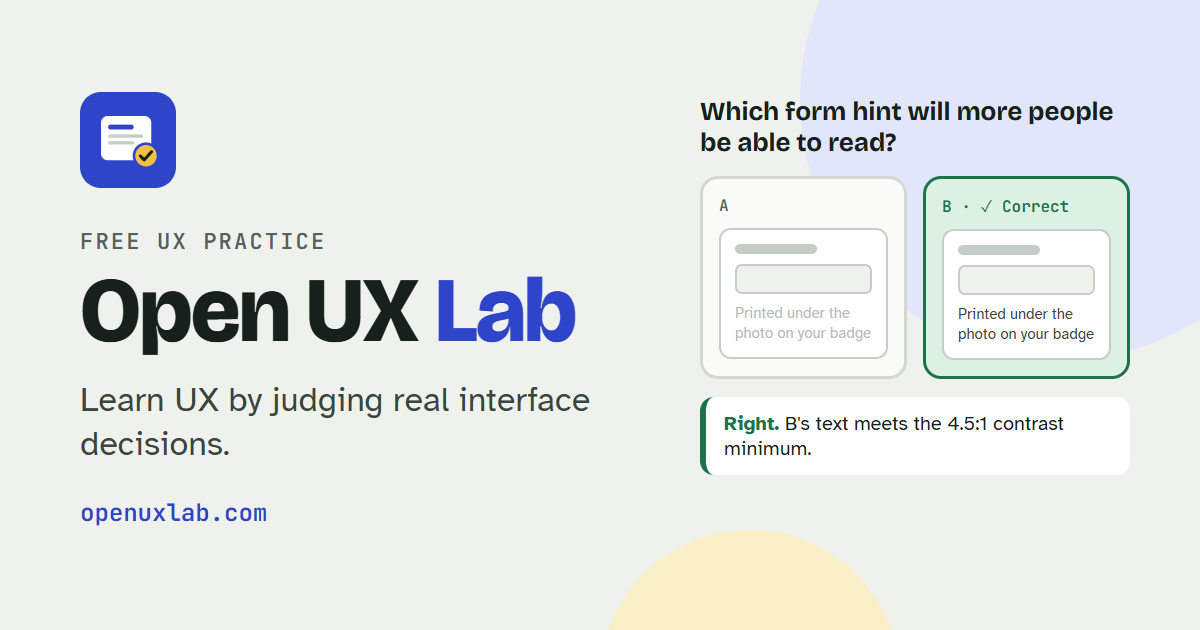
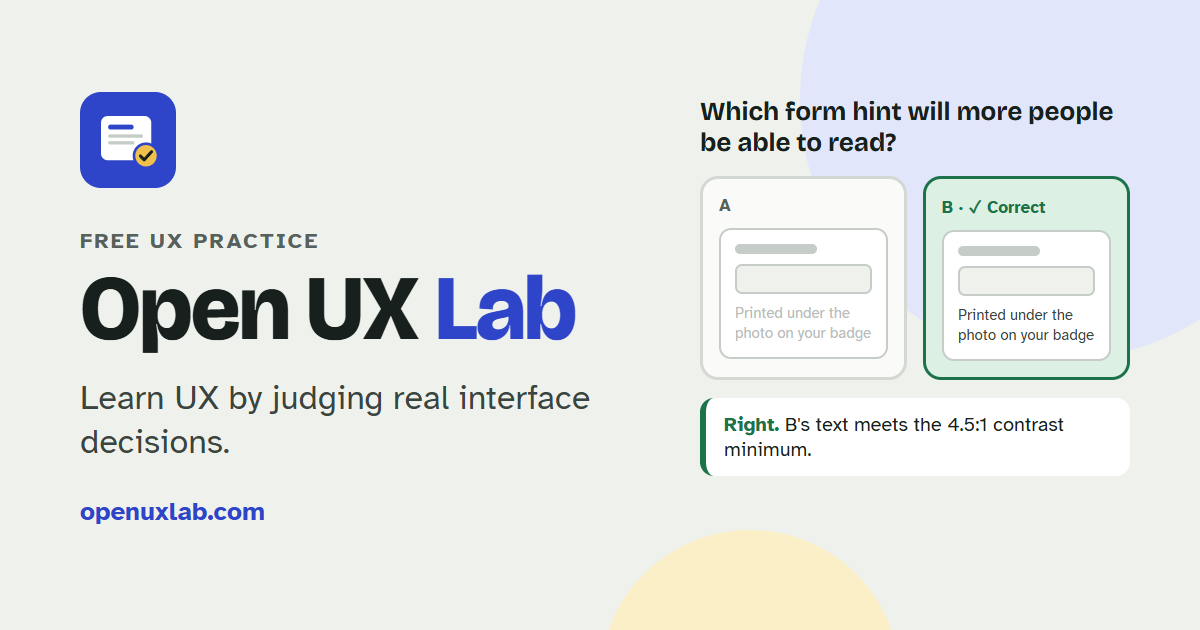
Use two typefaces only: drop JetBrains Mono
Labels, chips, status tags and illustration text now use Atkinson
Hyperlegible, following the Visual design basics typography lesson.
Removes the font package and its credit, and regenerates the link
preview image.

diff --git a/src/styles.css b/src/styles.css
@@ -20,7 +20,6 @@
   --mk-line: #c6cdc8;
   --f-display: "Bricolage Grotesque Variable", "Bricolage Grotesque", "Avenir Next", "Segoe UI", system-ui, sans-serif;
   --f-body: "Atkinson Hyperlegible", "Segoe UI", system-ui, sans-serif;
-  --f-mono: "JetBrains Mono", ui-monospace, "SFMono-Regular", Menlo, monospace;
   color-scheme: light;
 }
 @media (prefers-color-scheme: dark) {
@@ -93,7 +92,7 @@ h1, h2, h3 { font-family: var(--f-display); line-height: 1.15; text-wrap: balanc
 .brand span { color: var(--accent); }
 .stats { display: flex; gap: 8px; flex-wrap: wrap; }
 .chip {
-  font-family: var(--f-mono); font-size: 12px; padding: 4px 10px; border-radius: 999px;
+  font-family: var(--f-body); font-size: 13px; padding: 4px 10px; border-radius: 999px;
   border: 1px solid var(--line); background: var(--surface);
   font-variant-numeric: tabular-nums; white-space: nowrap;
 }
@@ -109,14 +108,14 @@ h1, h2, h3 { font-family: var(--f-display); line-height: 1.15; text-wrap: balanc
   padding-inline: 16px; padding-block: 28px 64px;
   display: grid; gap: 36px;
 }
-.eyebrow { font-family: var(--f-mono); font-size: 12px; letter-spacing: 0.08em; text-transform: uppercase; color: var(--muted); }
+.eyebrow { font-family: var(--f-body); font-weight: 700; font-size: 12px; letter-spacing: 0.08em; text-transform: uppercase; color: var(--muted); }
 .lede { font-size: 18px; max-width: 62ch; color: var(--muted); margin: 10px 0 0; }
 .hero h1 { font-size: clamp(30px, 6vw, 44px); font-weight: 800; letter-spacing: -0.02em; margin-top: 6px; }
 .footnote { color: var(--muted); font-size: 13px; margin: 0; }
 
 .section-head { display: flex; justify-content: space-between; align-items: baseline; gap: 12px; flex-wrap: wrap; margin-bottom: 14px; }
 .section-head h2 { font-size: 24px; font-weight: 700; }
-.meter { display: flex; align-items: center; gap: 10px; font-family: var(--f-mono); font-size: 12px; color: var(--muted); }
+.meter { display: flex; align-items: center; gap: 10px; font-family: var(--f-body); font-size: 12px; color: var(--muted); }
 .meter-track { width: 120px; height: 6px; border-radius: 3px; background: var(--line); overflow: hidden; }
 .meter-track i { display: block; height: 100%; background: var(--accent); transition: width 0.4s; }
 
@@ -128,10 +127,10 @@ h1, h2, h3 { font-family: var(--f-display); line-height: 1.15; text-wrap: balanc
   padding: 14px 4px; color: var(--fg); text-decoration: none;
 }
 .row:hover .row-title { color: var(--accent); }
-.code { font-family: var(--f-mono); font-weight: 600; font-size: 13px; color: var(--accent); }
+.code { font-family: var(--f-body); font-weight: 600; font-size: 13px; color: var(--accent); }
 .row-title { font-weight: 700; font-size: 17px; min-width: 0; }
 .row-sub { display: block; font-weight: 400; font-size: 14px; color: var(--muted); }
-.status { font-family: var(--f-mono); font-size: 11px; letter-spacing: 0.06em; text-transform: uppercase; padding: 3px 8px; border-radius: 4px; white-space: nowrap; }
+.status { font-family: var(--f-body); font-weight: 700; font-size: 11px; letter-spacing: 0.06em; text-transform: uppercase; padding: 3px 8px; border-radius: 4px; white-space: nowrap; }
 .status.done { background: var(--good-soft); color: var(--good); }
 .status.next { background: var(--accent); color: var(--accent-ink); }
 .status.todo { color: var(--muted); border: 1px solid var(--line); }
@@ -167,7 +166,7 @@ h1, h2, h3 { font-family: var(--f-display); line-height: 1.15; text-wrap: balanc
 .prose h2, .prose h3 { font-size: 18px; margin: 22px 0 8px; }
 .prose ul { margin: 0; padding-left: 20px; display: grid; gap: 6px; }
 .field { border-left: 3px solid var(--mark); background: var(--mark-soft); padding: 12px 16px; border-radius: 0 8px 8px 0; margin-top: 22px; font-size: 15px; }
-.field b { font-family: var(--f-mono); font-size: 11px; letter-spacing: 0.08em; text-transform: uppercase; display: block; margin-bottom: 4px; }
+.field b { font-family: var(--f-body); font-size: 11px; letter-spacing: 0.08em; text-transform: uppercase; display: block; margin-bottom: 4px; }
 .sources { margin-top: 22px; font-size: 14px; color: var(--muted); }
 .sources a { display: inline-block; margin-right: 12px; }
 .sources .license-note { margin: 8px 0 0; font-size: 13px; }
@@ -184,7 +183,7 @@ h1, h2, h3 { font-family: var(--f-display); line-height: 1.15; text-wrap: balanc
 }
 .choice:hover:not(:disabled) { border-color: var(--accent); }
 .choice:disabled { cursor: default; }
-.choice .tag { font-family: var(--f-mono); font-size: 12px; font-weight: 600; color: var(--muted); }
+.choice .tag { font-family: var(--f-body); font-size: 12px; font-weight: 600; color: var(--muted); }
 .opts { display: grid; gap: 10px; margin-top: 16px; max-width: 620px; }
 .opt { text-align: left; background: var(--surface); border: 2px solid var(--line); border-radius: 10px; padding: 12px 14px; cursor: pointer; }
 .opt:hover:not(:disabled) { border-color: var(--accent); }
@@ -218,7 +217,7 @@ h1, h2, h3 { font-family: var(--f-display); line-height: 1.15; text-wrap: balanc
 .mk-bar i { display: block; height: 100%; background: var(--accent); }
 .mk-toast { display: flex; justify-content: space-between; gap: 8px; background: var(--fg); color: var(--bg); padding: 7px 10px; border-radius: 6px; font-size: 12px; }
 .mk-toast u { color: var(--bg); font-weight: 700; }
-.mk-kbd { font-family: var(--f-mono); font-size: 10px; border: 1px solid var(--mk-line); border-radius: 3px; padding: 0 4px; color: var(--muted); }
+.mk-kbd { font-family: var(--f-body); font-size: 10px; border: 1px solid var(--mk-line); border-radius: 3px; padding: 0 4px; color: var(--muted); }
 .mk-grid { display: grid; grid-template-columns: repeat(3, 1fr); gap: 6px; }
 .mk-cell { border: 1px solid var(--mk-line); border-radius: 5px; padding: 5px; font-size: 11px; }
 .mk-cell b { display: block; font-size: 13px; }
@@ -228,7 +227,7 @@ h1, h2, h3 { font-family: var(--f-display); line-height: 1.15; text-wrap: balanc
 /* Accessibility mockups. .mk-faint deliberately fails contrast: use it only in the "worse" design. */
 .mk-faint { color: color-mix(in srgb, var(--fg) 35%, var(--mk-bg)); font-size: 12px; }
 .mk-focus { outline: 3px solid var(--accent); outline-offset: 2px; }
-.mk-say { font-family: var(--f-mono); font-size: 11px; background: var(--accent-soft); color: var(--fg); border-left: 3px solid var(--accent); border-radius: 0 5px 5px 0; padding: 6px 8px; }
+.mk-say { font-family: var(--f-body); font-size: 11px; background: var(--accent-soft); color: var(--fg); border-left: 3px solid var(--accent); border-radius: 0 5px 5px 0; padding: 6px 8px; }
 .mk-say b { display: block; font-size: 10px; text-transform: uppercase; letter-spacing: 0.04em; color: var(--muted); }
 .mk-dot { display: inline-block; flex: none; width: 10px; height: 10px; border-radius: 50%; background: var(--muted); }
 .mk-dot.good { background: var(--good); }
@@ -255,9 +254,9 @@ h1, h2, h3 { font-family: var(--f-display); line-height: 1.15; text-wrap: balanc
   border: 2px solid var(--fg); border-radius: 6px; padding: 8px 10px;
   width: 100%; max-width: 26em;
 }
-.form-input.code { max-width: 9em; font-family: var(--f-mono); letter-spacing: 0.12em; }
+.form-input.code { max-width: 9em; font-family: var(--f-body); letter-spacing: 0.12em; font-variant-numeric: tabular-nums; }
 .has-error .form-input { border-color: var(--bad); }
-.sync-line { font-family: var(--f-mono); font-size: 13px; color: var(--muted); }
+.sync-line { font-family: var(--f-body); font-size: 13px; color: var(--muted); }
 .sync-line.error { color: var(--bad); }
 .visually-hidden {
   position: absolute !important; width: 1px; height: 1px; margin: -1px; padding: 0;
@@ -287,7 +286,7 @@ h1, h2, h3 { font-family: var(--f-display); line-height: 1.15; text-wrap: balanc
 .feedback:focus-visible { outline: 3px solid var(--accent); outline-offset: 2px; }
 .done-title { font-size: 26px; margin-top: 6px; }
 .choice .tag { display: flex; gap: 10px; align-items: center; flex-wrap: wrap; }
-.verdict { font-family: var(--f-mono); font-size: 12px; font-weight: 600; text-transform: none; letter-spacing: 0; }
+.verdict { font-family: var(--f-body); font-size: 13px; font-weight: 700; text-transform: none; letter-spacing: 0; }
 .verdict.right { color: var(--good); }
 .verdict.wrong { color: var(--bad); }
 .opt .verdict { display: block; margin-top: 6px; }
@@ -318,9 +317,9 @@ h1, h2, h3 { font-family: var(--f-display); line-height: 1.15; text-wrap: balanc
 .skill-desc { color: var(--muted); font-size: 15px; }
 .skill-bar { height: 8px; border-radius: 4px; background: var(--line); overflow: hidden; }
 .skill-bar i { display: block; height: 100%; background: var(--accent); transition: width 0.4s; }
-.skill-count { font-family: var(--f-mono); font-size: 13px; }
+.skill-count { font-family: var(--f-body); font-size: 13px; }
 .skill-next { font-size: 15px; }
-.level { font-family: var(--f-mono); font-size: 11px; letter-spacing: 0.06em; text-transform: uppercase; padding: 3px 8px; border-radius: 4px; white-space: nowrap; border: 1px solid var(--line); color: var(--muted); }
+.level { font-family: var(--f-body); font-weight: 700; font-size: 11px; letter-spacing: 0.06em; text-transform: uppercase; padding: 3px 8px; border-radius: 4px; white-space: nowrap; border: 1px solid var(--line); color: var(--muted); }
 .level.strong { background: var(--good-soft); color: var(--good); border-color: transparent; }
 .level.developing { background: var(--accent-soft); color: var(--fg); border-color: transparent; }
 .level.getting-started { background: var(--mark-soft); color: var(--fg); border-color: transparent; }
@@ -333,7 +332,7 @@ h1, h2, h3 { font-family: var(--f-display); line-height: 1.15; text-wrap: balanc
 .lesson-tile {
   width: 44px; height: 44px; border-radius: 12px; display: grid; place-items: center; flex: none;
   background: var(--accent-soft); color: var(--accent);
-  font-family: var(--f-mono); font-weight: 600; font-size: 13px;
+  font-family: var(--f-body); font-weight: 600; font-size: 13px;
   transition: transform 0.15s ease, background 0.15s ease;
 }
 .row:hover .lesson-tile { transform: translateY(-2px); }
@@ -368,17 +367,17 @@ h1, h2, h3 { font-family: var(--f-display); line-height: 1.15; text-wrap: balanc
 .scene-svg .guide { fill: none; stroke: var(--accent); stroke-width: 2; stroke-dasharray: 4 4; }
 .scene-svg .thin-2 { stroke-width: 2; }
 .scene-svg .on-color { fill: none; stroke: var(--mk-bg); stroke-width: 2.5; stroke-linecap: round; stroke-linejoin: round; }
-.scene-svg .key-text { font: 600 16px var(--f-mono); fill: var(--fg); }
+.scene-svg .key-text { font: 600 16px var(--f-body); fill: var(--fg); }
 .scene-svg .key-text.small { font-size: 11px; }
 .scene-svg .help-text.big { font-size: 22px; }
 .scene-svg .date-text.small { font-size: 13px; }
 .scene-svg .stroke-accent.thick { stroke-width: 8; }
-.scene-svg .label-text { font: 600 10px var(--f-mono); fill: var(--muted); }
-.scene-svg .on-accent-text { font: 700 10px var(--f-mono); fill: var(--accent-ink); }
-.scene-svg .on-good-text { font: 700 11px var(--f-mono); fill: var(--mk-bg); }
+.scene-svg .label-text { font: 600 10px var(--f-body); fill: var(--muted); }
+.scene-svg .on-accent-text { font: 700 10px var(--f-body); fill: var(--accent-ink); }
+.scene-svg .on-good-text { font: 700 11px var(--f-body); fill: var(--mk-bg); }
 .scene-svg .name-text { font: 600 13px var(--f-body); fill: var(--fg); }
-.scene-svg .date-text { font: 600 15px var(--f-mono); fill: var(--fg); }
-.scene-svg .chip-text { font: 600 13px var(--f-mono); fill: var(--fg); }
+.scene-svg .date-text { font: 600 15px var(--f-body); fill: var(--fg); }
+.scene-svg .chip-text { font: 600 13px var(--f-body); fill: var(--fg); }
 .scene-svg .tiny-text { font: 600 9px var(--f-body); fill: var(--fg); }
 .scene-svg .bad-text { font: 700 16px var(--f-body); fill: var(--bad); }
 .scene-svg .good-soft-fill { fill: var(--good-soft); }
@@ -487,7 +486,7 @@ h1, h2, h3 { font-family: var(--f-display); line-height: 1.15; text-wrap: balanc
 .tone-2 .path-icon { background: var(--mark-soft); color: var(--mark-ink); }
 .path-card-title { font-family: var(--f-display); font-weight: 700; font-size: 20px; line-height: 1.2; margin-top: 4px; }
 .path-card-desc { color: var(--muted); font-size: 15px; }
-.path-card-meta { font-family: var(--f-mono); font-size: 12px; color: var(--muted); }
+.path-card-meta { font-family: var(--f-body); font-size: 12px; color: var(--muted); }
 .path-card .meter-track { flex: 1; width: auto; }
 .path-card-next { font-size: 14px; font-weight: 700; color: var(--accent); }
 .path-card-next.complete { color: var(--good); }

diff --git a/src/pages/CreditsPage.tsx b/src/pages/CreditsPage.tsx
@@ -17,7 +17,6 @@ function Ext({ href, children }: { href: string; children: ReactNode }) {
 const FONTS = [
   { name: "Bricolage Grotesque", by: "The Bricolage Grotesque Project Authors", url: "https://github.com/ateliertriay/bricolage" },
   { name: "Atkinson Hyperlegible", by: "Braille Institute of America", url: "https://www.brailleinstitute.org/freefont/" },
-  { name: "JetBrains Mono", by: "The JetBrains Mono Project Authors", url: "https://github.com/JetBrains/JetBrainsMono" },
 ];
 
 const SOFTWARE = [

diff --git a/src/main.tsx b/src/main.tsx
@@ -6,8 +6,6 @@ import "@fontsource/atkinson-hyperlegible/400.css";
 import "@fontsource/atkinson-hyperlegible/400-italic.css";
 import "@fontsource/atkinson-hyperlegible/700.css";
 import "@fontsource-variable/bricolage-grotesque/opsz.css";
-import "@fontsource/jetbrains-mono/400.css";
-import "@fontsource/jetbrains-mono/600.css";
 import "./styles.css";
 
 createRoot(document.getElementById("root")!).render(
